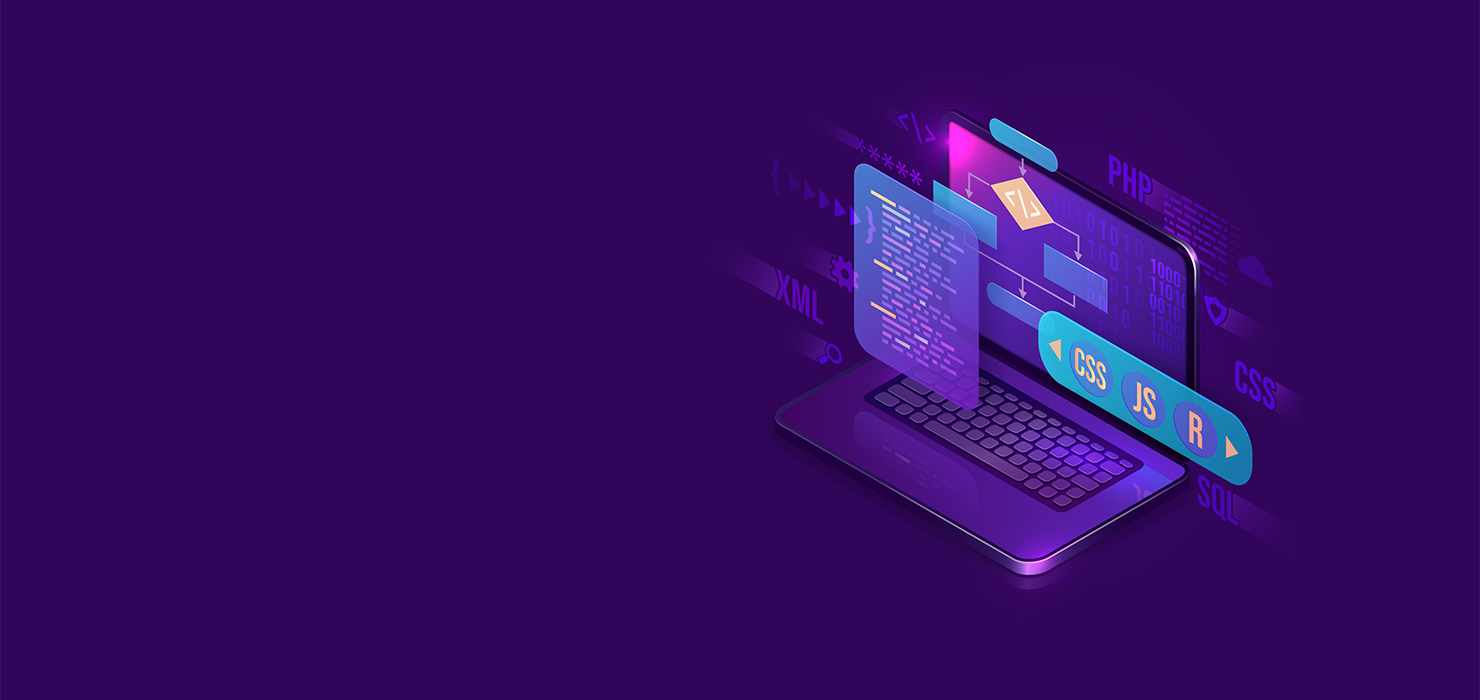
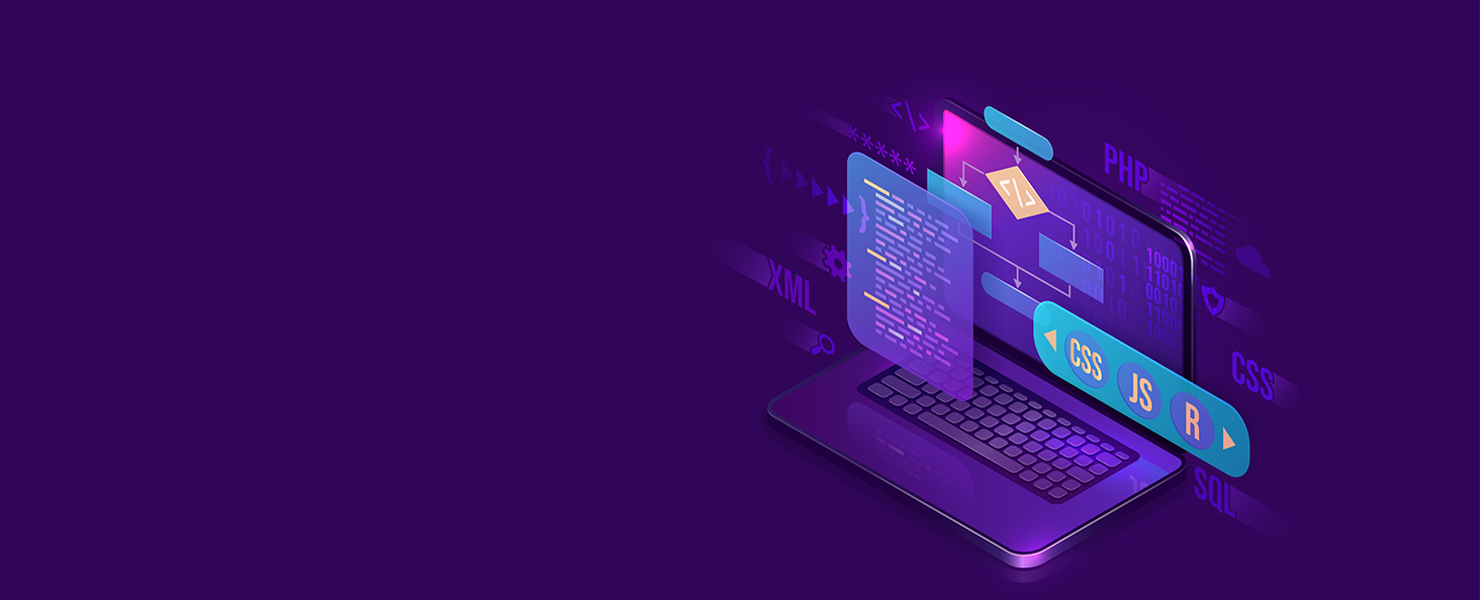
make responsive

Changed region(s): [[0.4973, 0.15, 0.8703, 0.99]]

diff --git a/src/Navbar/Navbar.jsx b/src/Navbar/Navbar.jsx
@@ -5,7 +5,7 @@ import "./navbar.css"
 
 const Navbar = () => {
 
-    const navLinks = <div className="navbar">
+    const navLinks = <div className="navbar flex items-center flex-col lg:flex-row gap-2 lg:gap-8">
         <li className="li1"><Link className="hover:text-orange-500" smooth={true} to="home">Home</Link></li>
         <li className="li2"><Link className="hover:text-orange-500" offset={-100} smooth={true} to="aboutme">About Me</Link></li>
         <li className="li3"><Link className="hover:text-orange-500" offset={-100} smooth={true} to="education">Education</Link></li>
@@ -15,23 +15,24 @@ const Navbar = () => {
     </div>
 
     return (
-        <div className="navbar flex items-center justify-between bg-[#170550] lg:px-[150px]">
-            <div>
-                <div className="logo">
-                    <img className="w-[120px] pt-1" src={logo} />
+        <div className="flex items-center justify-between bg-[#170550] lg:px-[150px]">
+            <div className="flex items-center p-3 md:p-2">
+                <div className="logo w-[120px]">
+                    <img className=" pt-1" src={logo} />
                 </div>
-                <div className="block lg:hidden dropdown dropdown-end ml-[230px] md:ml-[565px]">
+                <div className="block lg:hidden dropdown dropdown-end ml-[210px] md:ml-[560px]">
                     <label tabIndex={0} className="btn btn-error lg:hidden">
                         <svg xmlns="http://www.w3.org/2000/svg" fill="none" viewBox="0 0 24 24" className="inline-block w-5 h-5 stroke-current"><path strokeLinecap="round" strokeLinejoin="round" strokeWidth="2" d="M4 6h16M4 12h16M4 18h16"></path></svg>
                     </label>
-                    <ul tabIndex={0} className="flex text-base text-yellow-300 flex-col gap-4 dropdown-content mt-3 z-[1] p-6 py-6 shadow bg-[#170550] w-52">
+                    <ul tabIndex={0} className="rounded-lg flex text-base text-yellow-300 flex-col gap-4 dropdown-content mt-3 z-[1] p-6 py-6 shadow bg-[#170550] w-52">
                         {navLinks}
                     </ul>
                 </div>
             </div>
+
             <div>
-                <div className="hidden mr-8 lg:flex">
-                    <ul className="flex gap-8 text-yellow-300 cursor-pointer">
+                <div>
+                    <ul className="hidden lg:block text-yellow-300 cursor-pointer">
                         {navLinks}
                     </ul>
                 </div>

diff --git a/src/components/AboutMe/AboutMe.jsx b/src/components/AboutMe/AboutMe.jsx
@@ -3,14 +3,14 @@ import aboutme from "../../assets/aboutme.png"
 const AboutMe = () => {
 
     return (
-        <div className="max-w-[1468px] mx-auto pb-20" id="aboutme">
-            < h1 className="text-5xl font-extrabold text-white text-center" >ABOUT<span span className="text-orange-500" > ME</span ></h1 >
+        <div className="max-w-[1468px] mx-auto pb-20 lg:mt-16" id="aboutme">
+            < h1 className="text-4xl md:text-5xl font-extrabold text-white text-center" >ABOUT<span span className="text-orange-500" > ME</span ></h1 >
 
             <div className="flex flex-col lg:flex-row items-center justify-center gap-6 lg:gap-20 mt-12 text-white text-sm">
-                <div className="w-2/4 lg:w-1/4 p-5">
+                <div className="w-[300px] lg:w-1/4 p-5">
                     <img className="rounded-[36px]" src={aboutme} alt="about me" />
                 </div>
-                <div className="w-[45%] text-center lg:text-start">
+                <div className="lg:w-[45%] px-8 lg:px-0">
                     <p className="mb-3">👋 Hello there! I'am a passionate and detail-oriented web developer.</p>
                     <p className="mb-3">💻 I specialize in building robust and scalable web applications using the MERN (MongoDB, Express.js, React.js, Node.js) stack. I thrive on turning innovative ideas into practical solutions, leveraging my skills in React.js to craft engaging front-end interfaces that captivate users.</p>
                     <p className="mb-3">🌐 My expertise extends beyond the client-side, as I'm well-versed in server-side development using Node.js and Express.js. I have hands-on experience in database management, particularly with MongoDB, ensuring data integrity and efficient storage.</p>

diff --git a/src/components/Project/Project.jsx b/src/components/Project/Project.jsx
@@ -12,7 +12,7 @@ const Project = () => {
                     <h1 className="text-2xl text-yellow-300">Employee Management</h1>
                     <p className="text-xs mt-1">Transform workforce management with our Employee Management site, using Firebase, Tailwind, Mongoose, React, JWT, and daisyui. Tailored roles empower HR, Admin, and employees, ensuring an efficient and user-friendly experience.</p>
                 </div>
-                <a href="https://tricky-earthquake.surge.sh" target="blank" className="scrollBg-1 relative overflow-hidden h-[345px] w-[300px] border rounded-md cursor-pointer">
+                <a href="https://employee-management-client.vercel.app" target="blank" className="scrollBg-1 relative overflow-hidden h-[345px] w-[300px] border rounded-md cursor-pointer">
                     <div className="absolute h-[345px] w-[300px] bg-black bg-opacity-50 hover:opacity-0">
                         <div className="animateUpDown text-2xl mt-[140px] ml-[135px] text-white">
                             <IoIosArrowUp />

diff --git a/src/components/Home/Home.jsx b/src/components/Home/Home.jsx
@@ -10,11 +10,11 @@ const Home = () => {
         backgroundSize: 'cover',
         backgroundPosition: 'center',
         // backgroundAttachment: 'fixed',
-        height: '700px'
+        height: '600px'
     };
     return (
-        <div className="bgImg max-w-[1468px] mx-auto relative " style={bgImg} id="home">
-            <div className="absolute text-center lg:text-start top-[200px] left-[10px] md:left-[150px]">
+        <div className="max-w-[1468px] mx-auto relative" style={bgImg} id="home">
+            <div className="absolute text-center lg:text-start top-[140px] lg:top-[200px] left-[10px] md:left-[150px]">
                 <h2 className="home2 text-orange-500 font-medium text-xl">Hi, It's me</h2>
                 <h1 className="home1 text-3xl md:text-5xl font-extrabold text-white">MOST. KOHINUR AKTHER</h1>
                 <h2 className="home2 text-2xl font-medium my-1 text-white">And I'm a<span className="text-orange-500"> Web Developer</span></h2>

diff --git a/src/Navbar/navbar.css b/src/Navbar/navbar.css
@@ -4,30 +4,25 @@
 }
 
 .navbar .li1{
-    margin-right: 24px;
     opacity: 0;
     animation: slideTop 0s ease forwards;
 }
 .navbar .li2{
-    margin-right: 24px;
     transition: .2s;
     opacity: 0;
     animation: slideTop .5s ease forwards;
 }
 .navbar .li3{
-    margin-right: 24px;
     transition: .2s;
     opacity: 0;
     animation: slideTop .6s ease forwards;
 }
 .navbar .li4{
-    margin-right: 24px;
     transition: .2s;
     opacity: 0;
     animation: slideTop .7s ease forwards;
 }
 .navbar .li5{
-    margin-right: 24px;
     transition: .2s;
     opacity: 0;
     animation: slideTop .8s ease forwards;

diff --git a/src/components/Skills/Skills.jsx b/src/components/Skills/Skills.jsx
@@ -3,7 +3,7 @@ import ProgressBar from "@ramonak/react-progress-bar";
 const Skills = () => {
 
     return (
-        <div className="pb-20 max-w-[1468px] mx-auto lg:my-20" id='skills'>
+        <div className="pb-20 max-w-[1468px] mx-auto my-20" id='skills'>
             <h1 className="text-5xl font-extrabold text-white text-center">My <span className="text-orange-500">Skills</span></h1>
             <div className="mt-12 justify-center">
                 <div className="pl-10 md:pl-40 lg:pl-0 flex flex-col lg:flex-row mx-auto justify-center lg:gap-32 text-white">

diff --git a/src/index.css b/src/index.css
@@ -8,7 +8,6 @@
 body {
     font-family: 'Exo 2', sans-serif;
     background-color: #31065A;
-    overflow-x: hidden;
 }
 
 .container {
